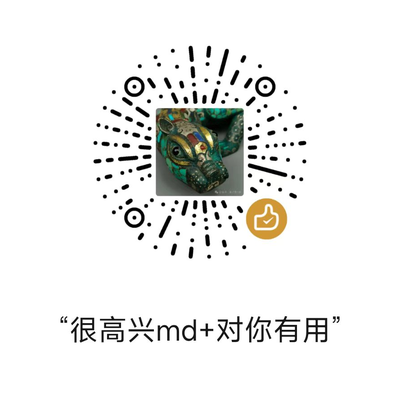
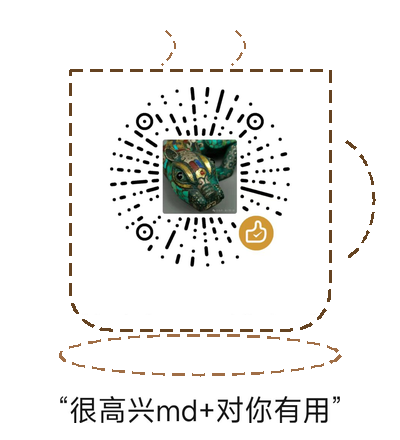
pages: 赞赏码咖啡杯外框版，图注改「请喝一口咖啡」

diff --git a/index.html b/index.html
@@ -67,7 +67,7 @@
   <h2>赞助</h2>
   <p>如果 MD+ 帮到了你，欢迎扫码赞赏——只要 1 元，完全自愿。不为收钱，只想统计一下它对多少人有用，感谢支持！</p>
   <div class="sponsor">
-    <div><img src="assets/sponsor-luckin.png" alt="微信赞赏码：赞助一口"><div class="cap">微信赞赏码 · 金额 1 元</div></div>
+    <div><img src="assets/sponsor-luckin.png" alt="微信赞赏码：请喝一口咖啡"><div class="cap">请喝一口咖啡 ☕</div></div>
   </div>
 
   <h2>源代码</h2>
